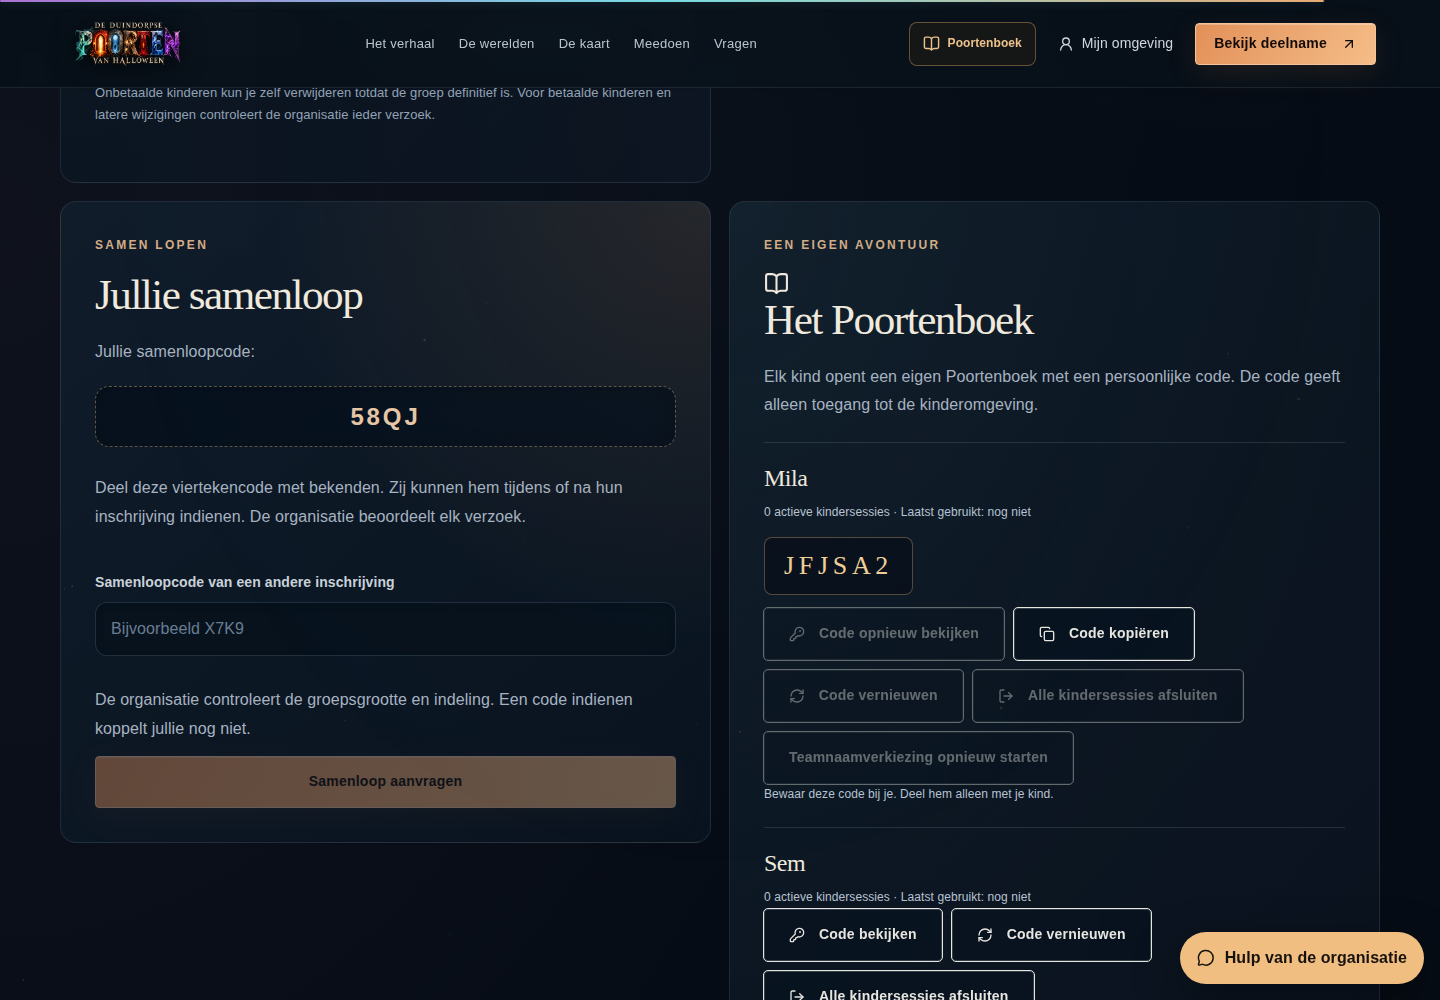
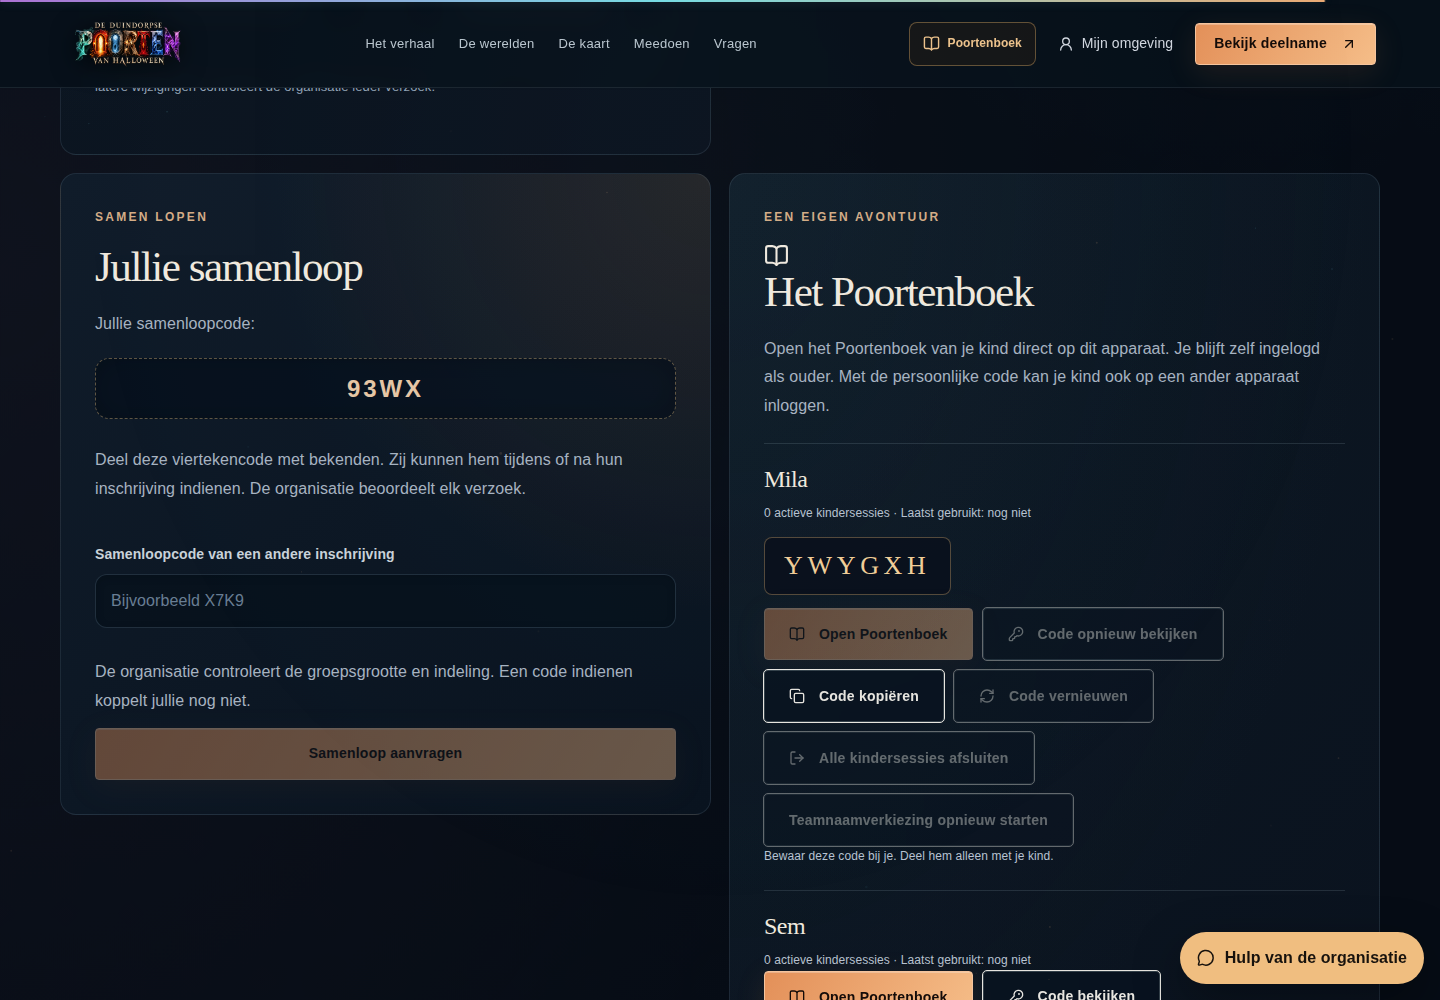
feat(poortenboek): let parents open each child's book directly

diff --git a/tests/e2e/poortenboek.spec.ts b/tests/e2e/poortenboek.spec.ts
@@ -1,6 +1,6 @@
 import { expect, test, type BrowserContext, type Page } from "@playwright/test";
 import { createClient } from "@supabase/supabase-js";
-import { randomUUID } from "node:crypto";
+import { createHash, randomUUID } from "node:crypto";
 import { mkdirSync } from "node:fs";
 import {
   createTogetherFixtures,
@@ -95,6 +95,14 @@ async function realFamily(context: BrowserContext) {
     password: "local-poortenboek-only",
   });
   expect(signed.error).toBeNull();
+  // Auth and PostgREST run in separate local containers. Wait until the newly
+  // issued fixture JWT is accepted before the browser's one-shot initial load.
+  await expect.poll(async () => {
+    const { error } = await client.schema("api").rpc("registration_snapshot", {
+      _event_slug: "duindorp-halloween-2026",
+    });
+    return error?.code ?? null;
+  }, { timeout: 10_000 }).toBeNull();
   const value = `base64-${Buffer.from(JSON.stringify(signed.data.session)).toString("base64url")}`;
   const name = `sb-${new URL(process.env.NEXT_PUBLIC_SUPABASE_URL!).hostname.split(".")[0]}-auth-token`;
   const chunks =
@@ -195,6 +203,60 @@ test("staging presentation: login, welcome, team voting, book and coming-soon ca
   expect(sql("select count(*) from app_private.poortenboek_sessions;")).toBe(
     countBefore,
   );
+});
+
+test("parent opens each child directly and switches safely on one shared device", async ({ page, context }) => {
+  const children = await realFamily(context);
+  const parentCookies = (await context.cookies()).filter((cookie) => cookie.name.startsWith("sb-"));
+  const childIds = children.map((child) => `'${child.id}'`).join(",");
+  const codeCount = () => Number(sql(`select count(*) from app_private.poortenboek_codes where child_id in (${childIds});`));
+  expect(codeCount()).toBe(0);
+  let opens = 0;
+  page.on("request", (request) => {
+    if (request.url().endsWith("/api/poortenboek/parent") && request.method() === "POST" && request.postDataJSON()?.action === "open") opens++;
+  });
+  async function openChild(name: string) {
+    await page.goto("/mijn-inschrijving");
+    const card = page.getByRole("article", { name: `Poortenboek van ${name}`, exact: true });
+    await expect(card).toBeVisible();
+    await expect(card.locator("output")).toHaveCount(0);
+    const response = page.waitForResponse((response) => response.url().endsWith("/api/poortenboek/parent") && response.request().method() === "POST");
+    await card.getByRole("button", { name: `Open Poortenboek van ${name}`, exact: true }).click();
+    expect((await response).status()).toBe(200);
+    await expect(page.getByRole("heading", { name: `Welkom, ${name}!`, exact: true })).toBeVisible();
+    await dashboard(page);
+    await expect(page.getByText(`Welkom terug, ${name}`, { exact: true })).toBeVisible();
+  }
+  await openChild("Mila");
+  const firstCookie = (await context.cookies()).find((cookie) => cookie.name === "__Host-poortenboek-session")!;
+  expect(firstCookie.secure && firstCookie.httpOnly).toBe(true);
+  expect(firstCookie.expires - Date.now() / 1000).toBeGreaterThan(43_170);
+  expect(firstCookie.expires - Date.now() / 1000).toBeLessThanOrEqual(43_200);
+  expect(codeCount()).toBe(1);
+  const saved = page.waitForResponse((response) => response.url().endsWith("/api/poortenboek/checklist"));
+  await page.getByRole("checkbox", { name: "Snoeptas klaar", exact: true }).check();
+  expect((await saved).status()).toBe(200);
+
+  const [foreign] = createTogetherFixtures(1, 1, 1);
+  const foreignChild = sql(`select child_id from app_private.registration_children where registration_id='${foreign.members[0].id}';`).trim();
+  expect((await mutation(page, "parent", { action: "open", childId: foreignChild })).status).toBe(401);
+  expect((await context.cookies()).find((cookie) => cookie.name === firstCookie.name)?.value).toBe(firstCookie.value);
+
+  await openChild("Sem");
+  await expect(page.getByRole("checkbox", { name: "Snoeptas klaar", exact: true })).not.toBeChecked();
+  const hash = createHash("sha256").update(firstCookie.value).digest("hex");
+  expect(sql(`select revoked_at is not null from app_private.poortenboek_sessions where token_hash='${hash}';`)).toBe("t");
+  await openChild("Mila");
+  await expect(page.getByRole("checkbox", { name: "Snoeptas klaar", exact: true })).toBeChecked();
+  expect(codeCount()).toBe(2);
+  expect(opens).toBe(4); // Three buttons plus the explicitly rejected foreign-child request.
+  expect(Number(sql(`select count(*) from app_private.audit_events where action='poortenboek.parent_login' and resource_id in (${childIds});`))).toBe(3);
+  expect((await context.cookies()).filter((cookie) => cookie.name.startsWith("sb-")).map(({ name, value }) => ({ name, value }))).toEqual(parentCookies.map(({ name, value }) => ({ name, value })));
+  await page.goto("/poortenboek/ik");
+  await page.getByRole("button", { name: "Poortenboek sluiten", exact: true }).click();
+  await expect(page).toHaveURL(/\/poortenboek\/inloggen$/);
+  await page.goto("/mijn-inschrijving");
+  await expect(page.getByRole("button", { name: "Open Poortenboek van Sem", exact: true })).toBeVisible();
 });
 
 test("real parent codes, independent child sessions, renewal and account switch", async ({

diff --git a/app/api/poortenboek/[action]/route.test.ts b/app/api/poortenboek/[action]/route.test.ts
@@ -64,6 +64,7 @@ vi.mock("next/navigation", () => ({
 import { GET, POST } from "./route";
 import DemoPage from "@/app/poortenboek/demo/page";
 import { LOGIN_ERROR } from "@/lib/poortenboek/model";
+import { tokenHash } from "@/lib/poortenboek/crypto";
 const post = (
   action: string,
   payload: object,
@@ -83,6 +84,7 @@ beforeEach(() => {
   mocks.env.APP_ENVIRONMENT = "production";
   mocks.env.POORTENBOEK_DEMO_ENABLED = "true";
   mocks.rpc.mockResolvedValue({ ok: false, delayMs: 1 });
+  mocks.getUser.mockResolvedValue({ data: { user: null }, error: null });
 });
 describe("child HTTP boundaries", () => {
   it("production demo page is 404 even with the flag enabled", async () => {
@@ -152,5 +154,58 @@ describe("child HTTP boundaries", () => {
       "private, no-store, max-age=0",
     );
     expect(result.headers.get("x-robots-tag")).toBe("noindex, nofollow");
+  });
+  it("opening as a child requires verified parent Auth and a trusted origin", async () => {
+    const payload = { action: "open", childId: "11111111-1111-4111-8111-111111111111" };
+    mocks.jar.set("__Host-poortenboek-session", "a".repeat(43));
+    expect((await post("parent", payload)).status).toBe(401);
+    expect((await post("parent", payload, "https://hostile.invalid")).status).toBe(400);
+    expect(mocks.rpc).not.toHaveBeenCalled();
+    expect(mocks.setCookie).not.toHaveBeenCalled();
+  });
+  it("parent opening sets only an independent child cookie and sends hashed tokens", async () => {
+    mocks.getUser.mockResolvedValue({ data: { user: { id: "verified-parent" } }, error: null });
+    const previous = "a".repeat(43);
+    mocks.jar.set("__Host-poortenboek-session", previous);
+    const expiresAt = new Date(Date.now() + 43_200_000).toISOString();
+    mocks.rpc.mockResolvedValue({ ok: true, expiresAt });
+    const result = await post("parent", {
+      action: "open", childId: "11111111-1111-4111-8111-111111111111", actor: "forged",
+    });
+    expect(result.status).toBe(200);
+    expect(await result.json()).toEqual({ ok: true });
+    expect(result.headers.get("cache-control")).toContain("no-store");
+    const [name, token, options] = mocks.setCookie.mock.calls[0];
+    expect(name).toBe("__Host-poortenboek-session");
+    expect(token).toMatch(/^[A-Za-z0-9_-]{43}$/);
+    expect(token).not.toBe(previous);
+    expect(options).toEqual({ secure: true, httpOnly: true, sameSite: "lax", path: "/", expires: new Date(expiresAt) });
+    expect(mocks.rpc).toHaveBeenCalledExactlyOnceWith("poortenboek_parent_open", {
+      _actor: "verified-parent", _event_slug: "event", _child_id: "11111111-1111-4111-8111-111111111111",
+      _token_hash: tokenHash(token), _previous_token_hash: tokenHash(previous),
+    });
+    expect(mocks.setCookie.mock.calls.map(([key]) => key)).toEqual(["__Host-poortenboek-session", "__Host-poortenboek-demo"]);
+  });
+  it("first parent opening provisions an encrypted code with collision retry without exposing it", async () => {
+    mocks.getUser.mockResolvedValue({ data: { user: { id: "verified-parent" } }, error: null });
+    mocks.rpc
+      .mockResolvedValueOnce({ needsCode: true, eventId: "test-event" })
+      .mockRejectedValueOnce(Object.assign(new Error("collision"), { code: "23505" }))
+      .mockResolvedValueOnce({ ok: true, expiresAt: new Date(Date.now() + 43_200_000).toISOString() });
+    const result = await post("parent", { action: "open", childId: "11111111-1111-4111-8111-111111111111" });
+    expect(await result.json()).toEqual({ ok: true });
+    expect(mocks.rpc).toHaveBeenCalledTimes(3);
+    for (const [, args] of mocks.rpc.mock.calls.slice(1)) {
+      expect(args._digest).toMatch(/^[a-f0-9]{64}$/);
+      expect(args._ciphertext).toMatch(/^v1\./);
+      expect(args._token_hash).toBe(mocks.rpc.mock.calls[0][1]._token_hash);
+    }
+    expect(mocks.rpc.mock.calls[1][1]._digest).not.toBe(mocks.rpc.mock.calls[2][1]._digest);
+  });
+  it("a rejected child selection preserves the existing child cookie", async () => {
+    mocks.getUser.mockResolvedValue({ data: { user: { id: "verified-parent" } }, error: null });
+    mocks.rpc.mockRejectedValueOnce(new Error("NOT_AUTHORIZED"));
+    expect((await post("parent", { action: "open", childId: "11111111-1111-4111-8111-111111111111" })).status).toBe(401);
+    expect(mocks.setCookie).not.toHaveBeenCalled();
   });
 });

diff --git a/components/poortenboek/parent.tsx b/components/poortenboek/parent.tsx
@@ -1,4 +1,5 @@
 "use client";
+/* eslint-disable @next/next/no-location-assign-relative-destination -- Changing child identity requires a full document request without retained private router state. */
 import { useCallback, useEffect, useRef, useState } from "react";
 import { BookOpen, Copy, KeyRound, LogOut, RefreshCw } from "lucide-react";
 
@@ -12,6 +13,38 @@ type Child = {
 export function ParentPoortenboek() {
   const [children, setChildren] = useState<Child[]>([]);
   const [notice, setNotice] = useState("");
+  const [openingChildId, setOpeningChildId] = useState<string | null>(null);
+  const opening = useRef(false);
+  async function openBook(childId: string) {
+    if (opening.current) return;
+    opening.current = true;
+    setOpeningChildId(childId);
+    setNotice("");
+    let leaving = false;
+    try {
+      const result = await fetch("/api/poortenboek/parent", {
+        method: "POST",
+        headers: { "Content-Type": "application/json" },
+        cache: "no-store",
+        body: JSON.stringify({ action: "open", childId }),
+      });
+      if (!result.ok) {
+        setNotice(
+          "Dit Poortenboek kon niet worden geopend. Controleer of je nog bent ingelogd en probeer opnieuw.",
+        );
+        return;
+      }
+      window.location.assign("/poortenboek");
+      leaving = true;
+    } catch {
+      setNotice("Maak verbinding om het Poortenboek te openen.");
+    } finally {
+      if (!leaving) {
+        opening.current = false;
+        setOpeningChildId(null);
+      }
+    }
+  }
   const load = useCallback(async () => {
     try {
       const result = await fetch("/api/poortenboek/parent", {
@@ -25,7 +58,17 @@ export function ParentPoortenboek() {
   }, []);
   useEffect(() => {
     const timer = window.setTimeout(() => void load(), 0);
-    return () => window.clearTimeout(timer);
+    const restored = (event: PageTransitionEvent) => {
+      if (!event.persisted) return;
+      opening.current = false;
+      setOpeningChildId(null);
+      void load();
+    };
+    window.addEventListener("pageshow", restored);
+    return () => {
+      window.clearTimeout(timer);
+      window.removeEventListener("pageshow", restored);
+    };
   }, [load]);
   if (!children.length && !notice) return null;
   return (
@@ -35,12 +78,19 @@ export function ParentPoortenboek() {
         <BookOpen size={25} /> Het Poortenboek
       </h2>
       <p>
-        Elk kind opent een eigen Poortenboek met een persoonlijke code. De code
-        geeft alleen toegang tot de kinderomgeving.
+        Open het Poortenboek van je kind direct op dit apparaat. Je blijft zelf
+        ingelogd als ouder. Met de persoonlijke code kan je kind ook op een ander
+        apparaat inloggen.
       </p>
       {notice && <p role="status">{notice}</p>}
       {children.map((child) => (
-        <ChildBook key={child.id} child={child} reload={load} />
+        <ChildBook
+          key={child.id}
+          child={child}
+          reload={load}
+          openingChildId={openingChildId}
+          openBook={openBook}
+        />
       ))}
     </section>
   );
@@ -48,9 +98,13 @@ export function ParentPoortenboek() {
 function ChildBook({
   child,
   reload,
+  openingChildId,
+  openBook,
 }: {
   child: Child;
   reload: () => Promise<void>;
+  openingChildId: string | null;
+  openBook: (childId: string) => Promise<void>;
 }) {
   const [code, setCode] = useState<string | null>(null);
   const [notice, setNotice] = useState("");
@@ -132,6 +186,16 @@ function ChildBook({
         </output>
       )}
       <div className="poortenboek-parent-actions">
+        <button
+          type="button"
+          className="btn"
+          disabled={busy || openingChildId !== null}
+          onClick={() => void openBook(child.id)}
+          aria-label={`Open Poortenboek van ${child.firstName}`}
+        >
+          <BookOpen size={16} />
+          {openingChildId === child.id ? "Poortenboek openen…" : "Open Poortenboek"}
+        </button>
         <button
           type="button"
           className="btn outline"

diff --git a/app/api/poortenboek/[action]/route.ts b/app/api/poortenboek/[action]/route.ts
@@ -162,25 +162,35 @@ export async function POST(request: Request, context: Context) {
     if (action === "parent") {
       const data = z
         .object({
-          action: z.enum(["view", "renew", "revoke", "reset"]),
+          action: z.enum(["open", "view", "renew", "revoke", "reset"]),
           childId: z.uuid(),
           reason: z.string().min(10).max(500).optional(),
         })
         .parse(input);
+      const token = data.action === "open" ? newSessionToken() : null;
+      const previousToken = store.get(CHILD_COOKIE)?.value;
+      const rpcName = token ? "poortenboek_parent_open" : "poortenboek_parent";
       const args = {
         _actor: await parentActor(),
         _event_slug: serverEnv().EVENT_SLUG,
-        _action: data.action,
         _child_id: data.childId,
-        _reason: data.reason ?? null,
+        ...(token
+          ? {
+              _token_hash: tokenHash(token),
+              _previous_token_hash:
+                previousToken && /^[A-Za-z0-9_-]{43}$/.test(previousToken)
+                  ? tokenHash(previousToken)
+                  : null,
+            }
+          : { _action: data.action, _reason: data.reason ?? null }),
       };
-      let result = await childRpc("poortenboek_parent", args);
+      let result = await childRpc(rpcName, args);
       if (result.needsCode) {
         const { pepper, encryptionKey } = childSecrets();
         for (let attempt = 0; attempt < 12; attempt++) {
           const code = generateChildCode();
           try {
-            result = await childRpc("poortenboek_parent", {
+            result = await childRpc(rpcName, {
               ...args,
               _digest: codeDigest(code, pepper),
               _ciphertext: encryptValue(
@@ -200,6 +210,15 @@ export async function POST(request: Request, context: Context) {
               throw error;
           }
         }
+      }
+      if (token) {
+        if (!result.ok || !result.expiresAt) throw new Error("INVALID_SESSION");
+        store.set(CHILD_COOKIE, token, {
+          ...cookieOptions,
+          expires: new Date(result.expiresAt),
+        });
+        store.set(DEMO_COOKIE, "", { ...cookieOptions, maxAge: 0 });
+        return response({ ok: true });
       }
       if (result.ciphertext)
         return response({

diff --git a/docs/architecture/poortenboek.md b/docs/architecture/poortenboek.md
@@ -18,7 +18,7 @@ Forward-only migratie `20260927001914_poortenboek_child_sessions_and_elections.s
 - `poortenboek_elections`, `poortenboek_ballots`, `poortenboek_commands`: generaties, geheime individuele stemmen en idempotente opdrachten.
 - `poortenboek_throttles`: blijvende, atomische loginbudgetten met gehashte kenmerken.
 
-Alle tabellen hebben RLS en geen rechten voor public/anon/authenticated. De vier API-RPC's `poortenboek_login`, `poortenboek_child_action`, `poortenboek_parent` en `poortenboek_admin` zijn security definer met lege search_path en alleen execute voor service_role. Parent/admin controleren vervolgens expliciet de geverifieerde actor en eigenaarschap/capabilities. De Node-server verkrijgt ouders via Supabase `getUser`; een client kan geen actor kiezen. Alleen household owners van submitted inschrijvingen met actieve kinderen mogen codes bekijken, vernieuwen of sessies intrekken. Organisatorisch verkiezingsbeheer vereist event_admin of groups_manage.
+Alle tabellen hebben RLS en geen rechten voor public/anon/authenticated. De vijf API-RPC's `poortenboek_login`, `poortenboek_child_action`, `poortenboek_parent`, `poortenboek_parent_open` en `poortenboek_admin` zijn security definer met lege search_path en alleen execute voor service_role. Parent/admin controleren vervolgens expliciet de geverifieerde actor en eigenaarschap/capabilities. De Node-server verkrijgt ouders via Supabase `getUser`; een client kan geen actor kiezen. Alleen household owners van submitted inschrijvingen met actieve kinderen mogen codes bekijken, vernieuwen of sessies intrekken. Organisatorisch verkiezingsbeheer vereist event_admin of groups_manage.
 
 Er worden geen bestaande inschrijvingen, codes, samenlopen, betalingen of groepsindelingen gewijzigd. De migratie zaait alleen verkiezingsinstellingen en opties; codes ontstaan bij de eerste expliciete ouderhandeling. De ouderlijst bevat geen codes of ciphertext: Code bekijken doet een afzonderlijk geautoriseerd verzoek per kind.
 
@@ -37,6 +37,8 @@ Bewaarformaat: `v1.<nonce base64url>.<tag base64url>.<ciphertext base64url>`, AE
 Een echte sessie gebruikt 256 willekeurige bits; alleen SHA-256(token) wordt opgeslagen. `__Host-poortenboek-session` is Secure, HttpOnly, SameSite=Lax, Path=/ en verloopt exact twaalf uur na uitgifte. Een databaseconstraint bewaakt dit interval, inclusief zomer-/wintertijd. Activiteit verlengt nooit. Iedere serveractie controleert sessie, code, actieve deelname en actueel team opnieuw. Uitloggen trekt één sessie in; Code vernieuwen trekt oude code en alle sessies atomair in. Alle kindersessies afsluiten behoudt de code. Voortgang blijft kindgebonden.
 
 Login beperkt per vijftien minuten tot 12 pogingen per codekenmerk, 30 per apparaat en 60 per IP, met vijftien minuten blokkering en 250/650 ms foutvertraging. HMAC's scheiden code/IP/apparaatdomeinen; ruwe IP's, codes en cookies worden niet gelogd. Het apparaatkenmerk staat in een aparte Secure/HttpOnly-cookie, niet in localStorage. De reverse proxy moet het waargenomen client-IP achteraan X-Forwarded-For toevoegen (of de header volledig vervangen); de server gebruikt alleen dat laatste adres en negeert X-Real-IP. Zonder header geldt één gedeeld strikt budget; toegang tot de Node-upstream mag uitsluitend via de ingress lopen. Verkeerde, ingetrokken, geblokkeerde en onbekende codes hebben dezelfde foutmelding. Request bodies zijn ook bij streaming begrensd op 8 KiB. Origin-controle beschermt mutaties. Audit bevat actie, IDs en bij een verkiezingsreset een verplichte reden; geen credentials of ledenlijsten.
+
+**Direct openen door de ouder:** per kind staat in het ouderdashboard een knop Open Poortenboek. `POST /api/poortenboek/parent` met actie `open` verifieert de ouder via `getUser`; de service-only RPC `poortenboek_parent_open` hergebruikt de bestaande eigenaarschapscontrole en vergrendeling van credentials. Migratie `20260927114652_poortenboek_parent_entry.sql` voegt uitsluitend deze RPC toe. Ontbrekende codes worden via dezelfde versleutelde provisioning gemaakt; bestaande codes worden niet vernieuwd of ontsleuteld. Het antwoord bevat geen code of token. De ouder krijgt de gewone aparte kindersessie van twaalf uur en behoudt de Supabase-oudersessie. Wisselen trekt alleen het eerdere kindtoken van deze browser atomair in; andere apparaten blijven ingelogd. Een geweigerde selectie verandert geen cookie of sessie. De actie wordt als `poortenboek.parent_login` met ouder-/kind-ID geaudit. Een volledige documentnavigatie opent de welkomscène en voorkomt hergebruik van een vorige kindersnapshot. Na het sluiten kan de ouder terug naar Mijn inschrijving om een ander kind te kiezen.
 
 ## Reisgenootjes en verkiezingen
 
